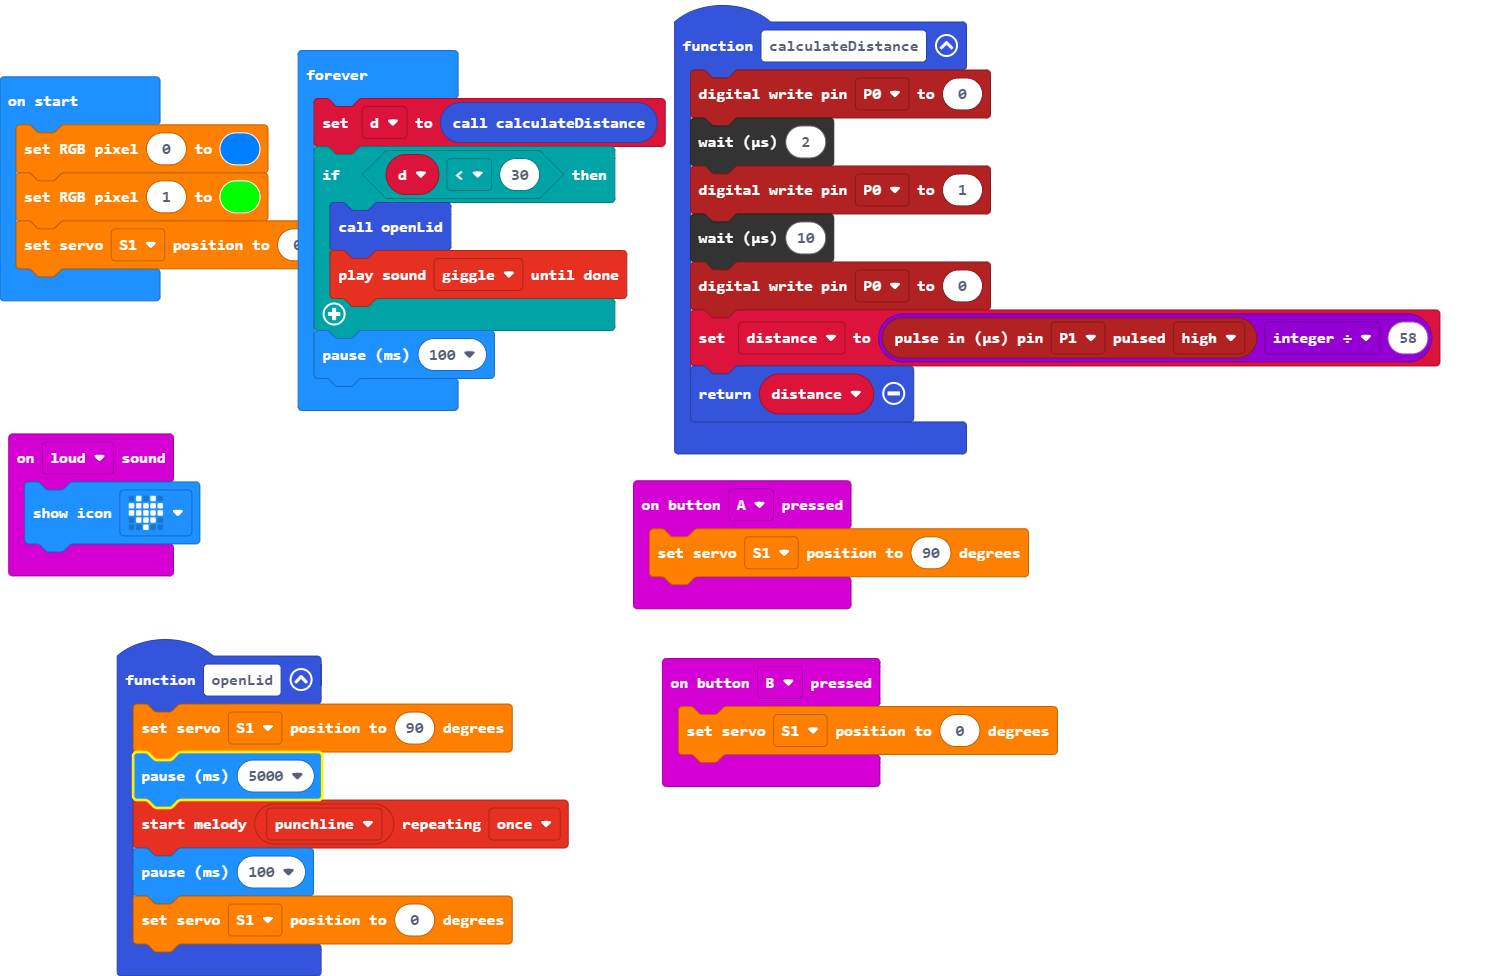
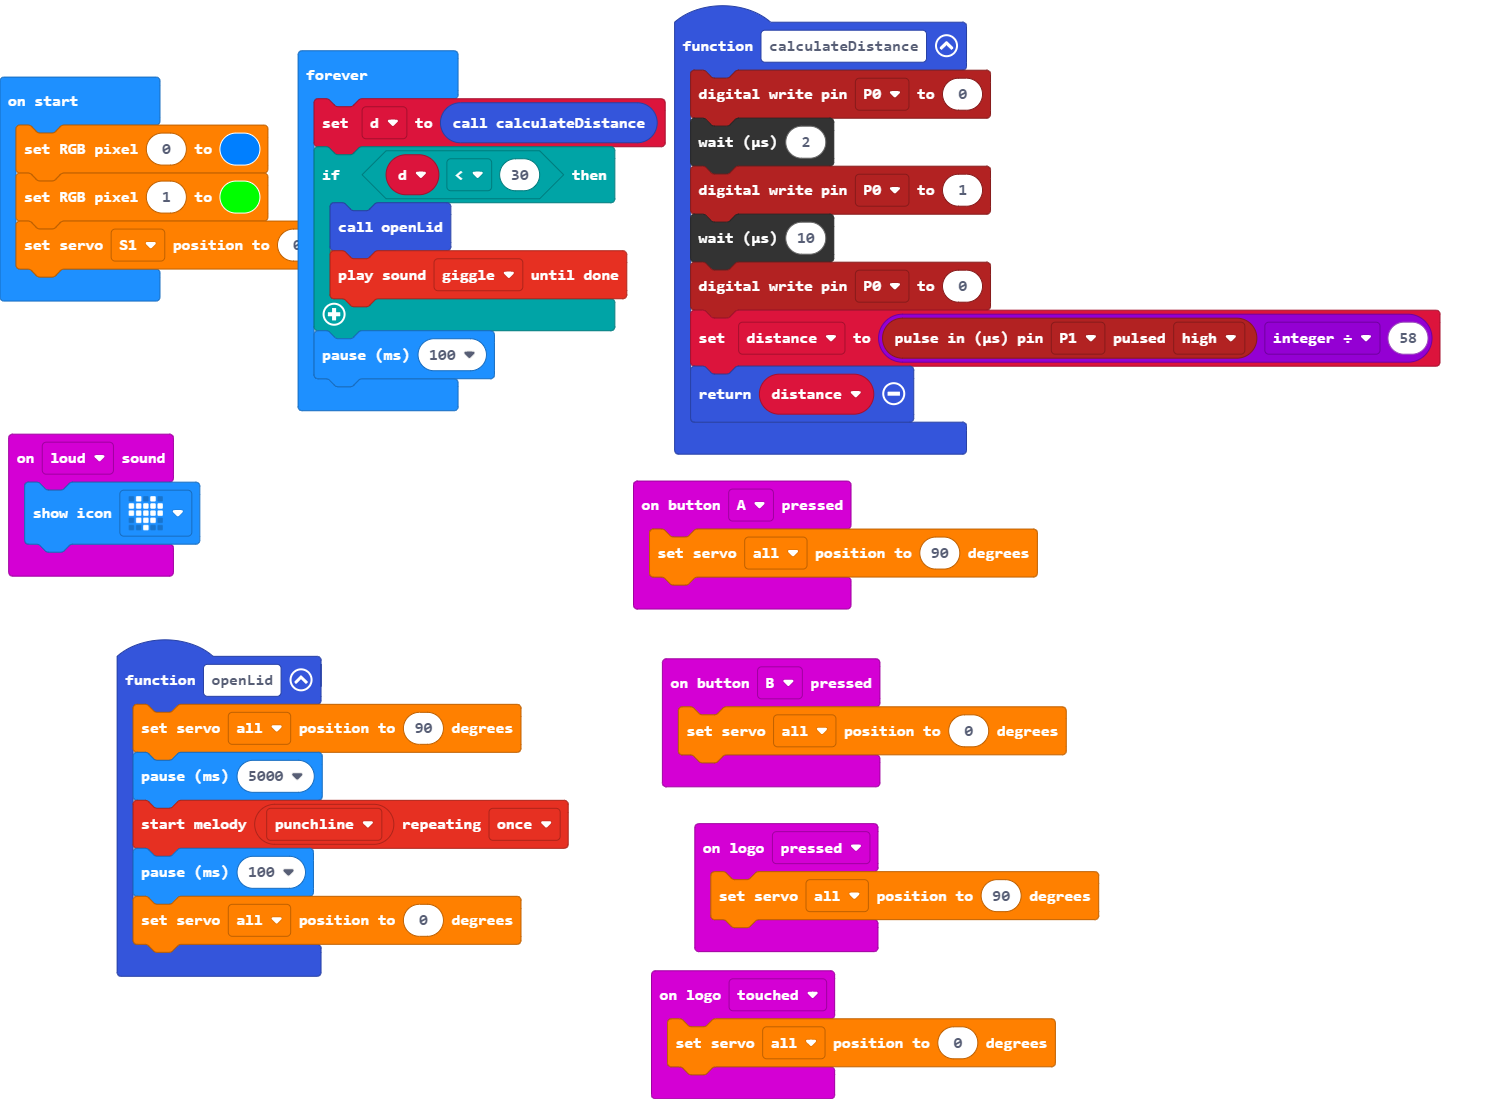
Update main.blocks, main.ts

diff --git a/main.ts b/main.ts
@@ -1,15 +1,15 @@
 input.onButtonPressed(Button.A, function () {
-    rekabit.setServoPosition(ServoChannel.S1, 90)
+    rekabit.setServoPosition(ServoChannel.All, 90)
 })
 input.onSound(DetectedSound.Loud, function () {
     basic.showIcon(IconNames.Heart)
 })
 function openLid () {
-    rekabit.setServoPosition(ServoChannel.S1, 90)
+    rekabit.setServoPosition(ServoChannel.All, 90)
     basic.pause(5000)
     music.startMelody(music.builtInMelody(Melodies.Punchline), MelodyOptions.Once)
     basic.pause(100)
-    rekabit.setServoPosition(ServoChannel.S1, 0)
+    rekabit.setServoPosition(ServoChannel.All, 0)
 }
 function calculateDistance () {
     pins.digitalWritePin(DigitalPin.P0, 0)
@@ -21,7 +21,13 @@ function calculateDistance () {
     return distance
 }
 input.onButtonPressed(Button.B, function () {
-    rekabit.setServoPosition(ServoChannel.S1, 0)
+    rekabit.setServoPosition(ServoChannel.All, 0)
+})
+input.onLogoEvent(TouchButtonEvent.Touched, function () {
+    rekabit.setServoPosition(ServoChannel.All, 0)
+})
+input.onLogoEvent(TouchButtonEvent.Pressed, function () {
+    rekabit.setServoPosition(ServoChannel.All, 90)
 })
 let d = 0
 let distance = 0
